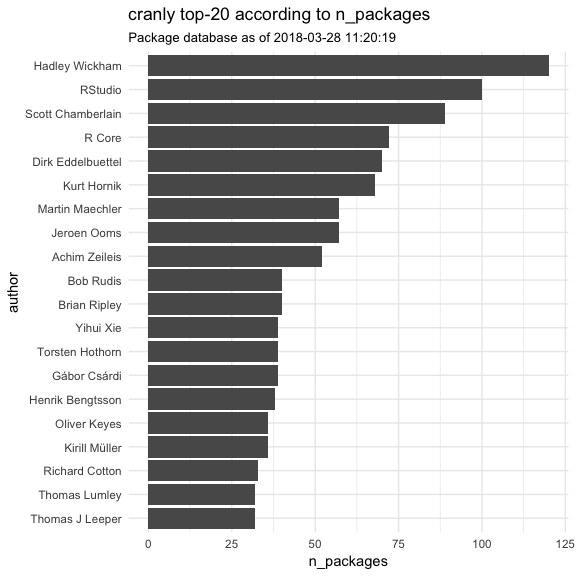
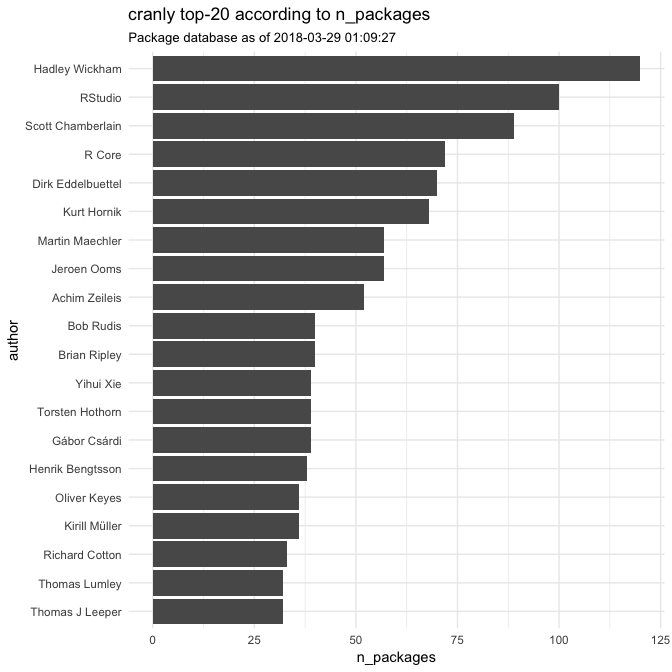
Updates related to linking to

diff --git a/README.md b/README.md
@@ -18,8 +18,8 @@ me, is proving harder and harder with the rapid growth of the
 
 The package provides methods for cleaning up and organising the
 information in the CRAN package database, for building package
-directives networks (depends, imports, suggests, enhances) and
-collaboration networks, and for computing summaries and producing
+directives networks (depends, imports, suggests, enhances, linking to)
+and collaboration networks, and for computing summaries and producing
 interactive visualisations from the resulting networks. Network
 visualisation is through the
 [**visNetwork**](https://CRAN.R-project.org/package=visNetwork) package.
@@ -51,7 +51,7 @@ The CRAN database we use is from
 
 ``` r
 attr(package_db, "timestamp")
-#> [1] "2018-03-28 11:20:19 BST"
+#> [1] "2018-03-29 01:09:27 BST"
 ```
 
 #### Package directives networks
@@ -68,7 +68,7 @@ package_network <- build_network(package_db)
 ``` r
 my_packages <- package_by(package_network, "Ioannis Kosmidis")
 my_packages
-#> [1] "betareg"      "brglm"        "brglm2"       "cranly"
+#> [1] "betareg"      "brglm"        "brglm2"       "cranly"      
 #> [5] "enrichwith"   "PlackettLuce" "profileModel" "trackeR"
 ```
 
